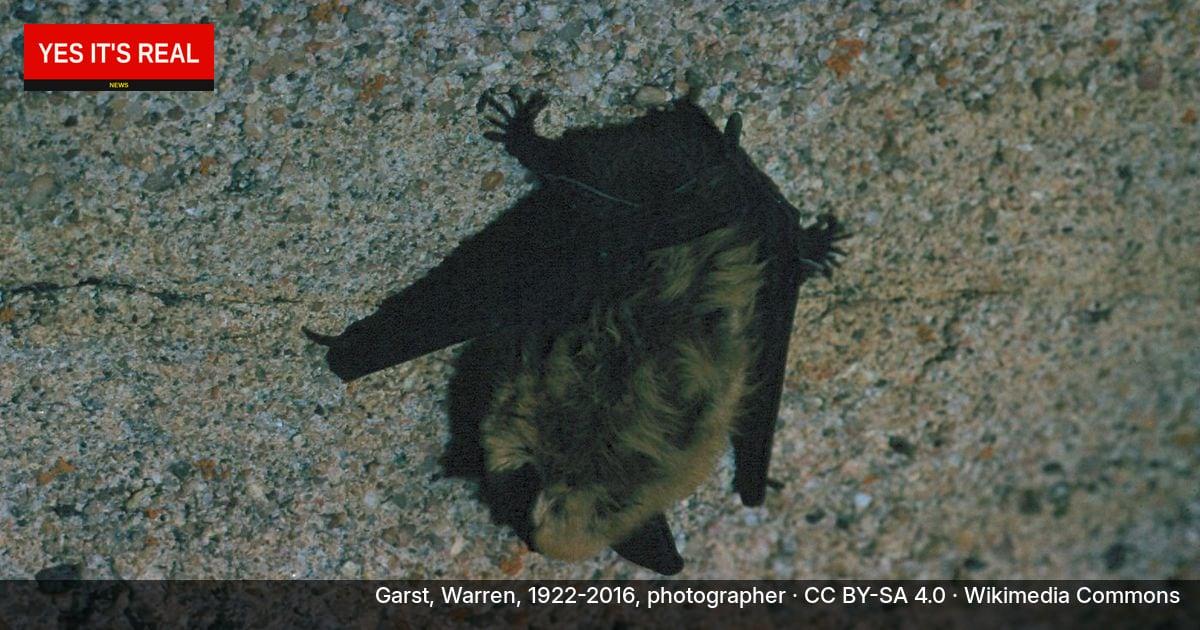
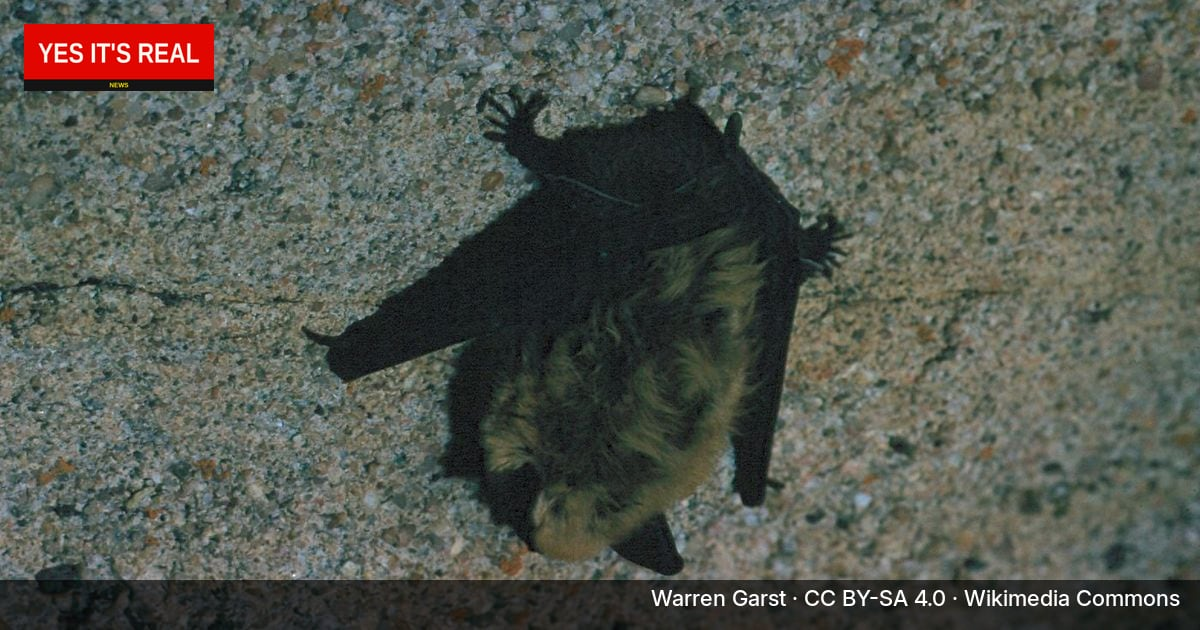
Photo credits: name only — strip Commons leftovers (talk, from City, at Wikipedia…)
- cleanCreditArtist: HTML entities, ( talk )/(talk)/trailing talk, (contribs),
  ( Flickr ), de:Benutzer:/User: prefixes, (www.site), at English Wikipedia,
  Flickr "from City, Country", "Name (Name)", LoC "Last, First, dates".
- cover-credits.json: 23 artists cleaned (s222 Yann ( talk ) → Yann, …).
- fetch-covers.py: clean_artist() mirror + html.unescape at scrape time.
- 23 share images regenerated (public/og, og-images.json).

Changed region(s): [[0.3083, 0.9349, 0.9867, 0.9651]]

diff --git a/src/lib/covers.ts b/src/lib/covers.ts
@@ -86,12 +86,38 @@ export function coverCredit(id: string): CoverCredit | undefined {
   return PHOTO_CREDITS[id];
 }
 
-/** Scraped Commons "Artist" fields can carry boilerplate — keep just the name. */
+/**
+ * Scraped Commons "Artist" fields can carry boilerplate — keep just the name.
+ * Strips: HTML entities, "( talk )" / "(talk)" / trailing "talk" link text, "(contribs)", "( Flickr )",
+ * "de:Benutzer:" / "User:" prefixes, "(www.site)" URLs, " at English Wikipedia", Flickr " from City, Country",
+ * "Name (Name)" duplicates, LoC "Last, First, 1922-2016, photographer" → "First Last".
+ * Keep scripts/fetch-covers.py clean_artist() in step.
+ */
 export function cleanCreditArtist(raw: string | undefined): string {
-  let a = (raw || "").replace(/\s+/g, " ").trim();
+  let a = (raw || "")
+    .replace(/&nbsp;/gi, " ")
+    .replace(/&quot;/gi, '"')
+    .replace(/&#0?39;|&apos;/gi, "'")
+    .replace(/&amp;/gi, "&")
+    .replace(/\s+/g, " ")
+    .trim();
   const assumed = a.match(/No machine-readable author provided\.\s*(.+?)\s+assumed/i);
   if (assumed) a = assumed[1];
-  a = a.replace(/~commonswiki$/i, "").replace(/\s*\((?:[a-z-]+:)?User:[^)]*\)/gi, "").trim();
+  const userPrefix = /^(?:[a-z]{2,3}:)?(?:User|Benutzer|Utilisateur|Usuario|Utente|Gebruiker):/i;
+  if (userPrefix.test(a)) a = a.replace(userPrefix, "").replace(/_/g, " ");
+  a = a
+    .replace(/~commonswiki$/i, "")
+    .replace(/\s*\((?:[a-z-]+:)?User:[^)]*\)/gi, "")
+    .replace(/\s*[([]\s*(?:talk|contribs?|discussion|diskussion|flickr)\s*[)\]]/gi, "")
+    .replace(/(?:\s*[·|•,-])?\s+(?:talk|contribs)$/i, "")
+    .replace(/\s*\((?:https?:\/\/|www\.)[^)]*\)/gi, "")
+    .replace(/\s+at\s+[A-Z][a-z]+\s+Wikipedia$/, "")
+    .replace(/\s+from\s+[A-Z][^,()[\]]*(?:,\s*[^,()[\]]+)*(?:\s*\[[^\]]*\])?$/, "")
+    .trim();
+  const dup = a.match(/^(.+?)\s*\(\s*(.+?)\s*\)$/);
+  if (dup && dup[1] === dup[2]) a = dup[1];
+  const loc = a.match(/^([^,]+),\s*([^,]+),\s*\d{4}-(?:\d{4})?(?:,\s*photographer)?$/i);
+  if (loc) a = `${loc[2]} ${loc[1]}`;
   if (/^own work$/i.test(a) || /^https?:\/\//i.test(a)) return "";
   return a.length > 60 ? `${a.slice(0, 57).trimEnd()}…` : a;
 }

diff --git a/scripts/fetch-covers.py b/scripts/fetch-covers.py
@@ -12,6 +12,7 @@ news sites or jail portals for mugshots.
 """
 from __future__ import annotations
 
+import html
 import json
 import re
 import time
@@ -276,7 +277,32 @@ def api(params: dict) -> dict:
 
 def strip_html(s: str) -> str:
     s = re.sub(r"<[^>]+>", " ", s or "")
-    return re.sub(r"\s+", " ", s).strip()
+    return re.sub(r"\s+", " ", html.unescape(s)).strip()
+
+
+def clean_artist(a: str) -> str:
+    """Name only (desk rule). Mirror of cleanCreditArtist() in src/lib/covers.ts."""
+    a = re.sub(r"\s+", " ", html.unescape(a or "")).strip()
+    m = re.search(r"No machine-readable author provided\.\s*(.+?)\s+assumed", a, re.I)
+    if m:
+        a = m.group(1)
+    prefix = re.compile(r"^(?:[a-z]{2,3}:)?(?:User|Benutzer|Utilisateur|Usuario|Utente|Gebruiker):", re.I)
+    if prefix.search(a):
+        a = prefix.sub("", a).replace("_", " ")
+    a = re.sub(r"~commonswiki$", "", a, flags=re.I)
+    a = re.sub(r"\s*\((?:[a-z-]+:)?User:[^)]*\)", "", a, flags=re.I)
+    a = re.sub(r"\s*[(\[]\s*(?:talk|contribs?|discussion|diskussion|flickr)\s*[)\]]", "", a, flags=re.I)
+    a = re.sub(r"(?:\s*[·|•,-])?\s+(?:talk|contribs)$", "", a, flags=re.I)
+    a = re.sub(r"\s*\((?:https?://|www\.)[^)]*\)", "", a, flags=re.I)
+    a = re.sub(r"\s+at\s+[A-Z][a-z]+\s+Wikipedia$", "", a)
+    a = re.sub(r"\s+from\s+[A-Z][^,()\[\]]*(?:,\s*[^,()\[\]]+)*(?:\s*\[[^\]]*\])?$", "", a).strip()
+    m = re.match(r"^(.+?)\s*\(\s*(.+?)\s*\)$", a)
+    if m and m.group(1) == m.group(2):
+        a = m.group(1)
+    m = re.match(r"^([^,]+),\s*([^,]+),\s*\d{4}-(?:\d{4})?(?:,\s*photographer)?$", a, re.I)
+    if m:
+        a = f"{m.group(2)} {m.group(1)}"
+    return "" if re.match(r"^own work$", a, re.I) else a
 
 
 def info_for_title(title: str) -> dict | None:
@@ -386,7 +412,7 @@ def main() -> None:
             continue
         url = hit.get("thumburl") or hit.get("url")
         meta = hit.get("extmetadata") or {}
-        artist = strip_html(meta.get("Artist", {}).get("value", "Wikimedia Commons"))
+        artist = clean_artist(strip_html(meta.get("Artist", {}).get("value", "Wikimedia Commons"))) or "Wikimedia Commons"
         lic = strip_html(meta.get("LicenseShortName", {}).get("value", ""))
         page = "https://commons.wikimedia.org/wiki/" + urllib.parse.quote(hit["title"].replace(" ", "_"))
         try:
